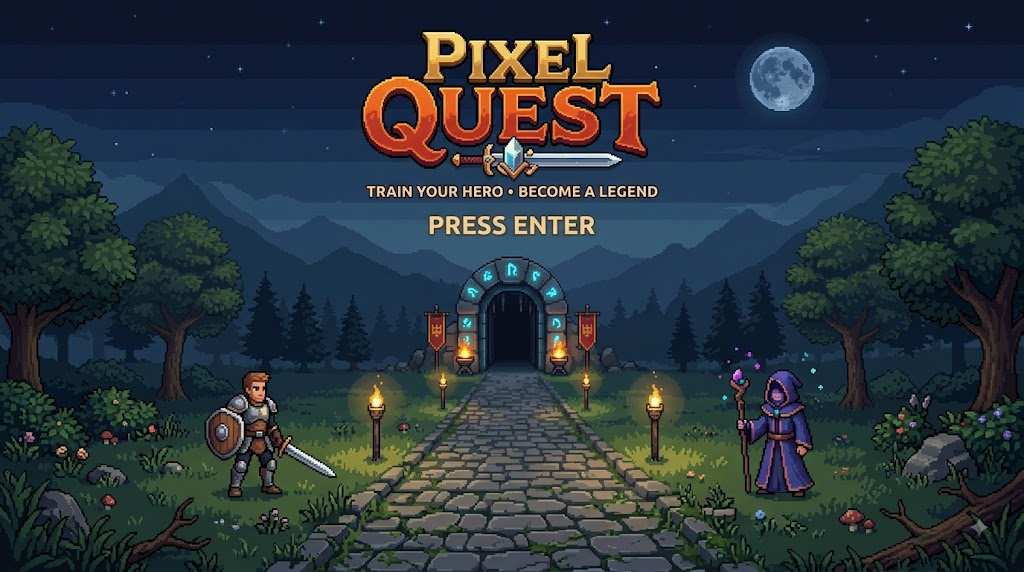
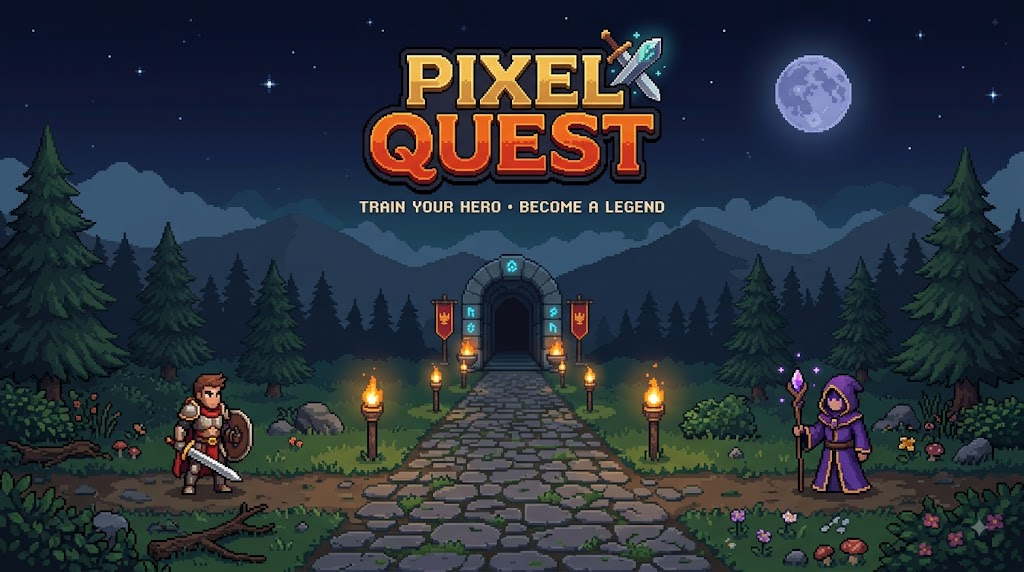
Swap title artwork and draw our own PRESS ENTER prompt
New title-screen art has no baked-in prompt text, so instead of the
glow-overlay hack from the last pass, this draws the actual "PRESS
ENTER" text procedurally (same font/pulse as before) positioned in the
gap between the tagline and the gate. Torch ember and mage spark
positions recalibrated to the new artwork's layout.

diff --git a/src/scenes/title.js b/src/scenes/title.js
@@ -28,13 +28,14 @@ let TITLE_READY = false;
 TITLE_IMG.onload = () => { TITLE_READY = true; };
 TITLE_IMG.src = 'assets/title_screen.png';
 
-// Position of the baked-in "PRESS ENTER" text and the two torches/mage-orb in
-// the artwork, converted from source-image pixels to canvas units, so the
-// pulse glow and ambient particles land in the right spots.
-const PRESS_TEXT = { cx: 240, cy: 106, w: 90, h: 18 };
-const LEFT_TORCH = { x: 190, y: 180 };
-const RIGHT_TORCH = { x: 285, y: 176 };
-const MAGE_ORB = { x: 349, y: 177 };
+// Position of the two torches/mage-orb in the artwork, converted from
+// source-image pixels to canvas units, so ambient particles land right.
+// This artwork has no "PRESS ENTER" baked in, so we draw our own below the
+// tagline, in the gap before the gate.
+const PRESS_Y = 112;
+const LEFT_TORCH = { x: 188, y: 179 };
+const RIGHT_TORCH = { x: 293, y: 179 };
+const MAGE_ORB = { x: 391, y: 177 };
 
 export class TitleScene {
   constructor(onStart) { this.onStart = onStart; }
@@ -274,23 +275,8 @@ export class TitleScene {
 
   _drawPress(g) {
     if (this.pressAlpha <= 0.01) return;
-    if (TITLE_READY) {
-      // The artwork already has "PRESS ENTER" baked in — pulse a soft gold
-      // glow over it (same breathing rhythm as the old procedural text) so
-      // it still reads as the prompt fading in and out.
-      const { cx, cy, w, h } = PRESS_TEXT;
-      g.globalAlpha = clamp01(this.pressAlpha) * 0.5;
-      for (let r = h; r > 0; r -= 2) {
-        g.globalAlpha = clamp01(this.pressAlpha) * 0.06;
-        disc(g, cx, cy, w / 2 + r * 0.4, '#ffe9a8');
-      }
-      g.globalAlpha = clamp01(this.pressAlpha) * 0.35;
-      rect(g, cx - w / 2, cy - h / 2, w, h, '#ffe9a8');
-      g.globalAlpha = 1;
-      return;
-    }
     g.globalAlpha = clamp01(this.pressAlpha);
-    drawText(g, 'PRESS ENTER', this.W / 2, 118, { color: '#f2c94f', align: 'center', scale: 2, shadow: '#0a0812' });
+    drawText(g, 'PRESS ENTER', this.W / 2, PRESS_Y, { color: '#f2c94f', align: 'center', scale: 2, shadow: '#0a0812' });
     g.globalAlpha = 1;
   }
 
